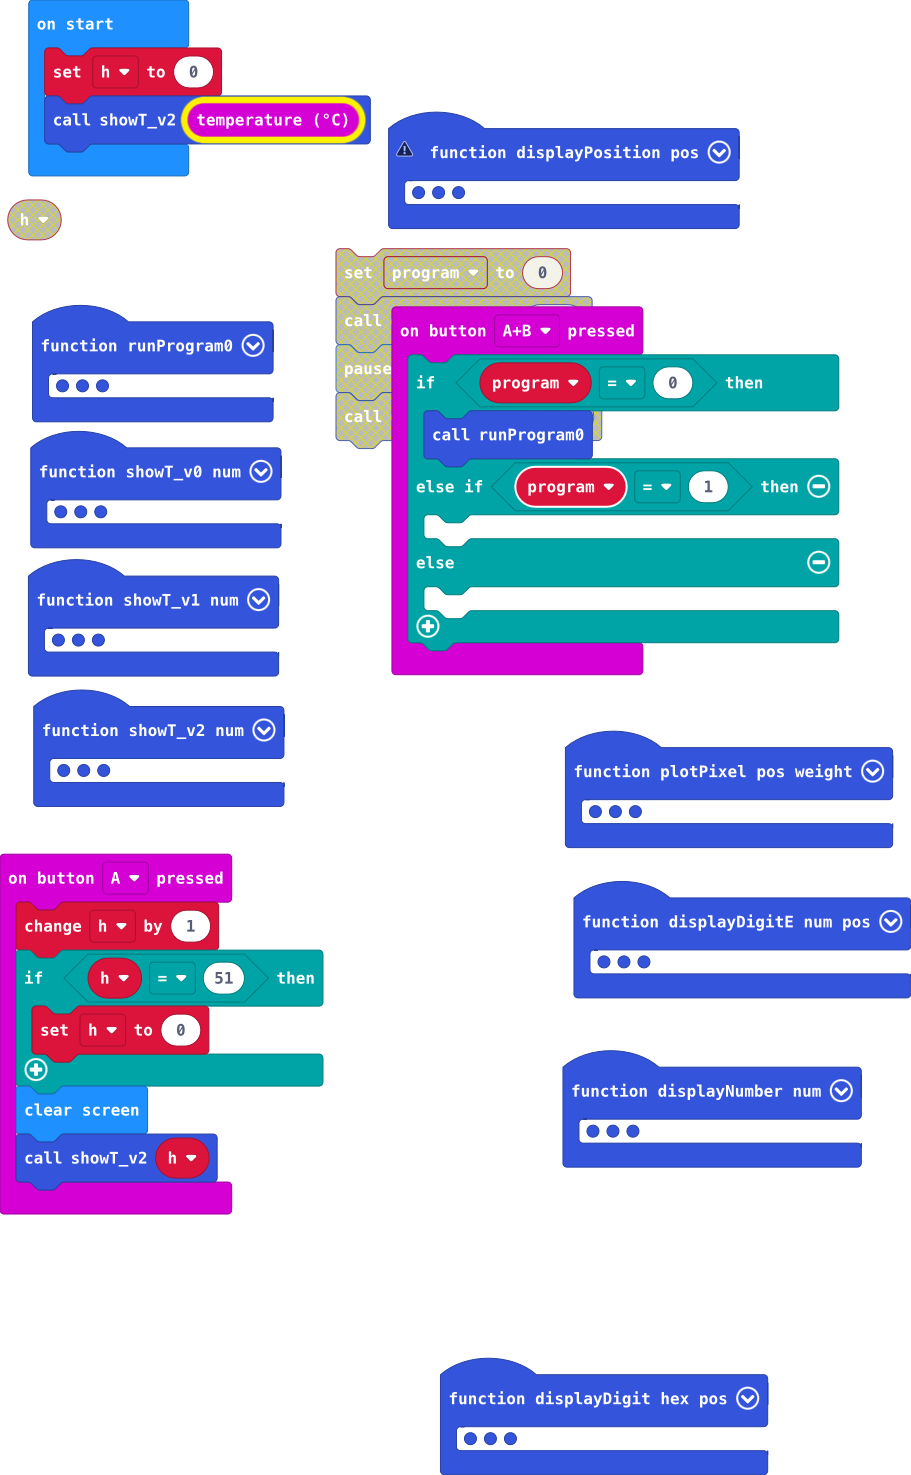
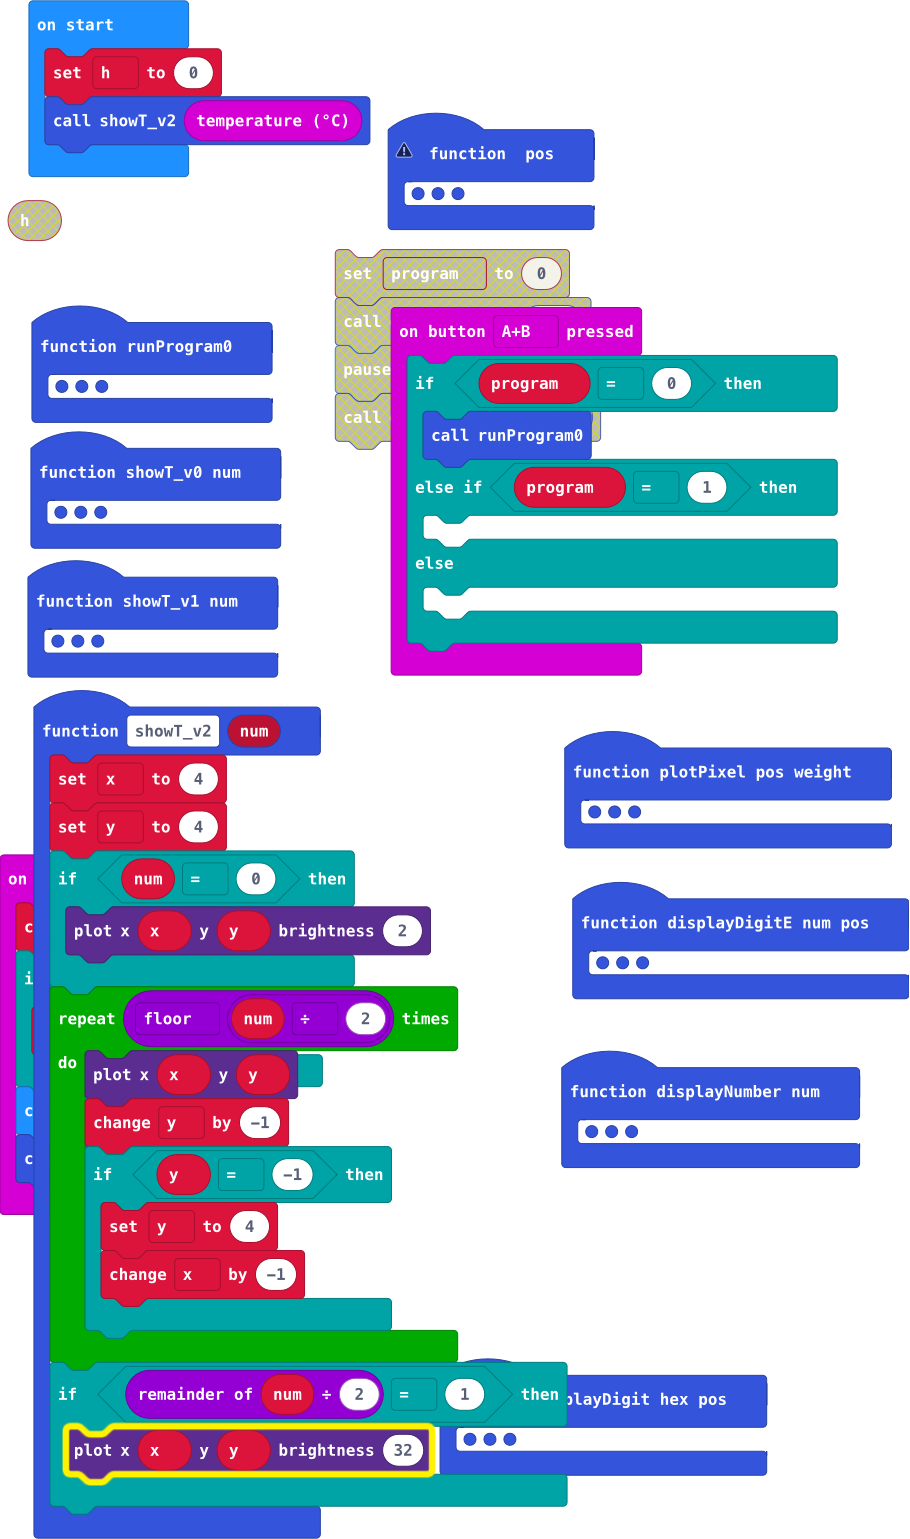
Adjusted light intensities

diff --git a/main.ts b/main.ts
@@ -55,7 +55,7 @@ function showT_v2 (num: number) {
         }
     }
     if (num % 2 == 1) {
-        led.plotBrightness(x, y, 127)
+        led.plotBrightness(x, y, 32)
     }
 }
 function plotPixel (pos: number, weight: number) {
